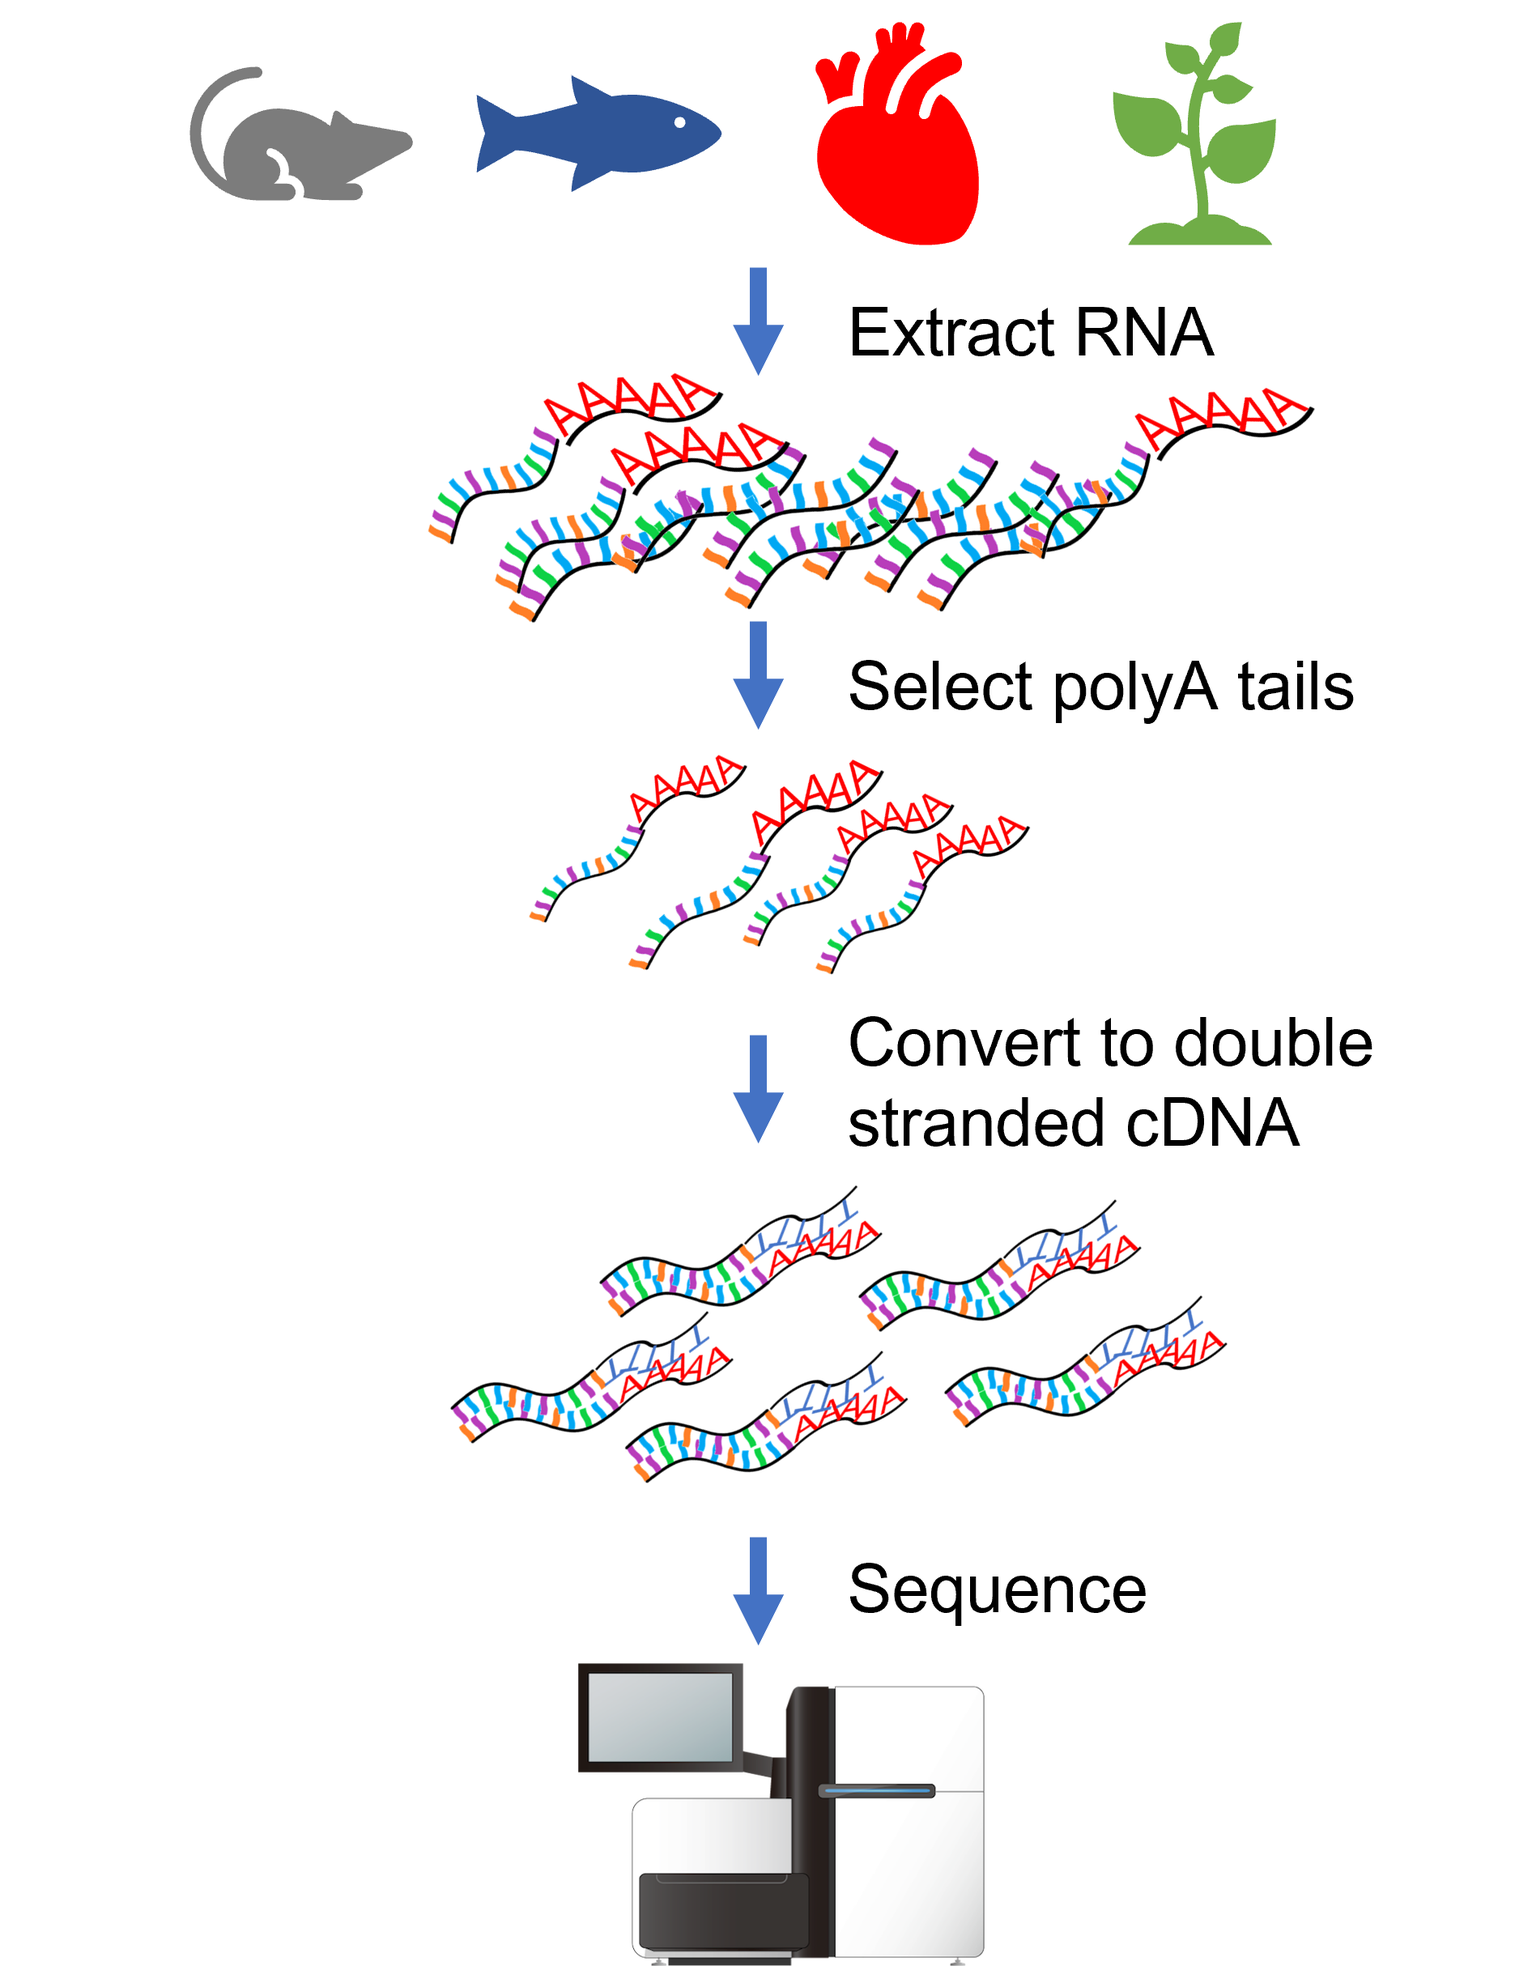
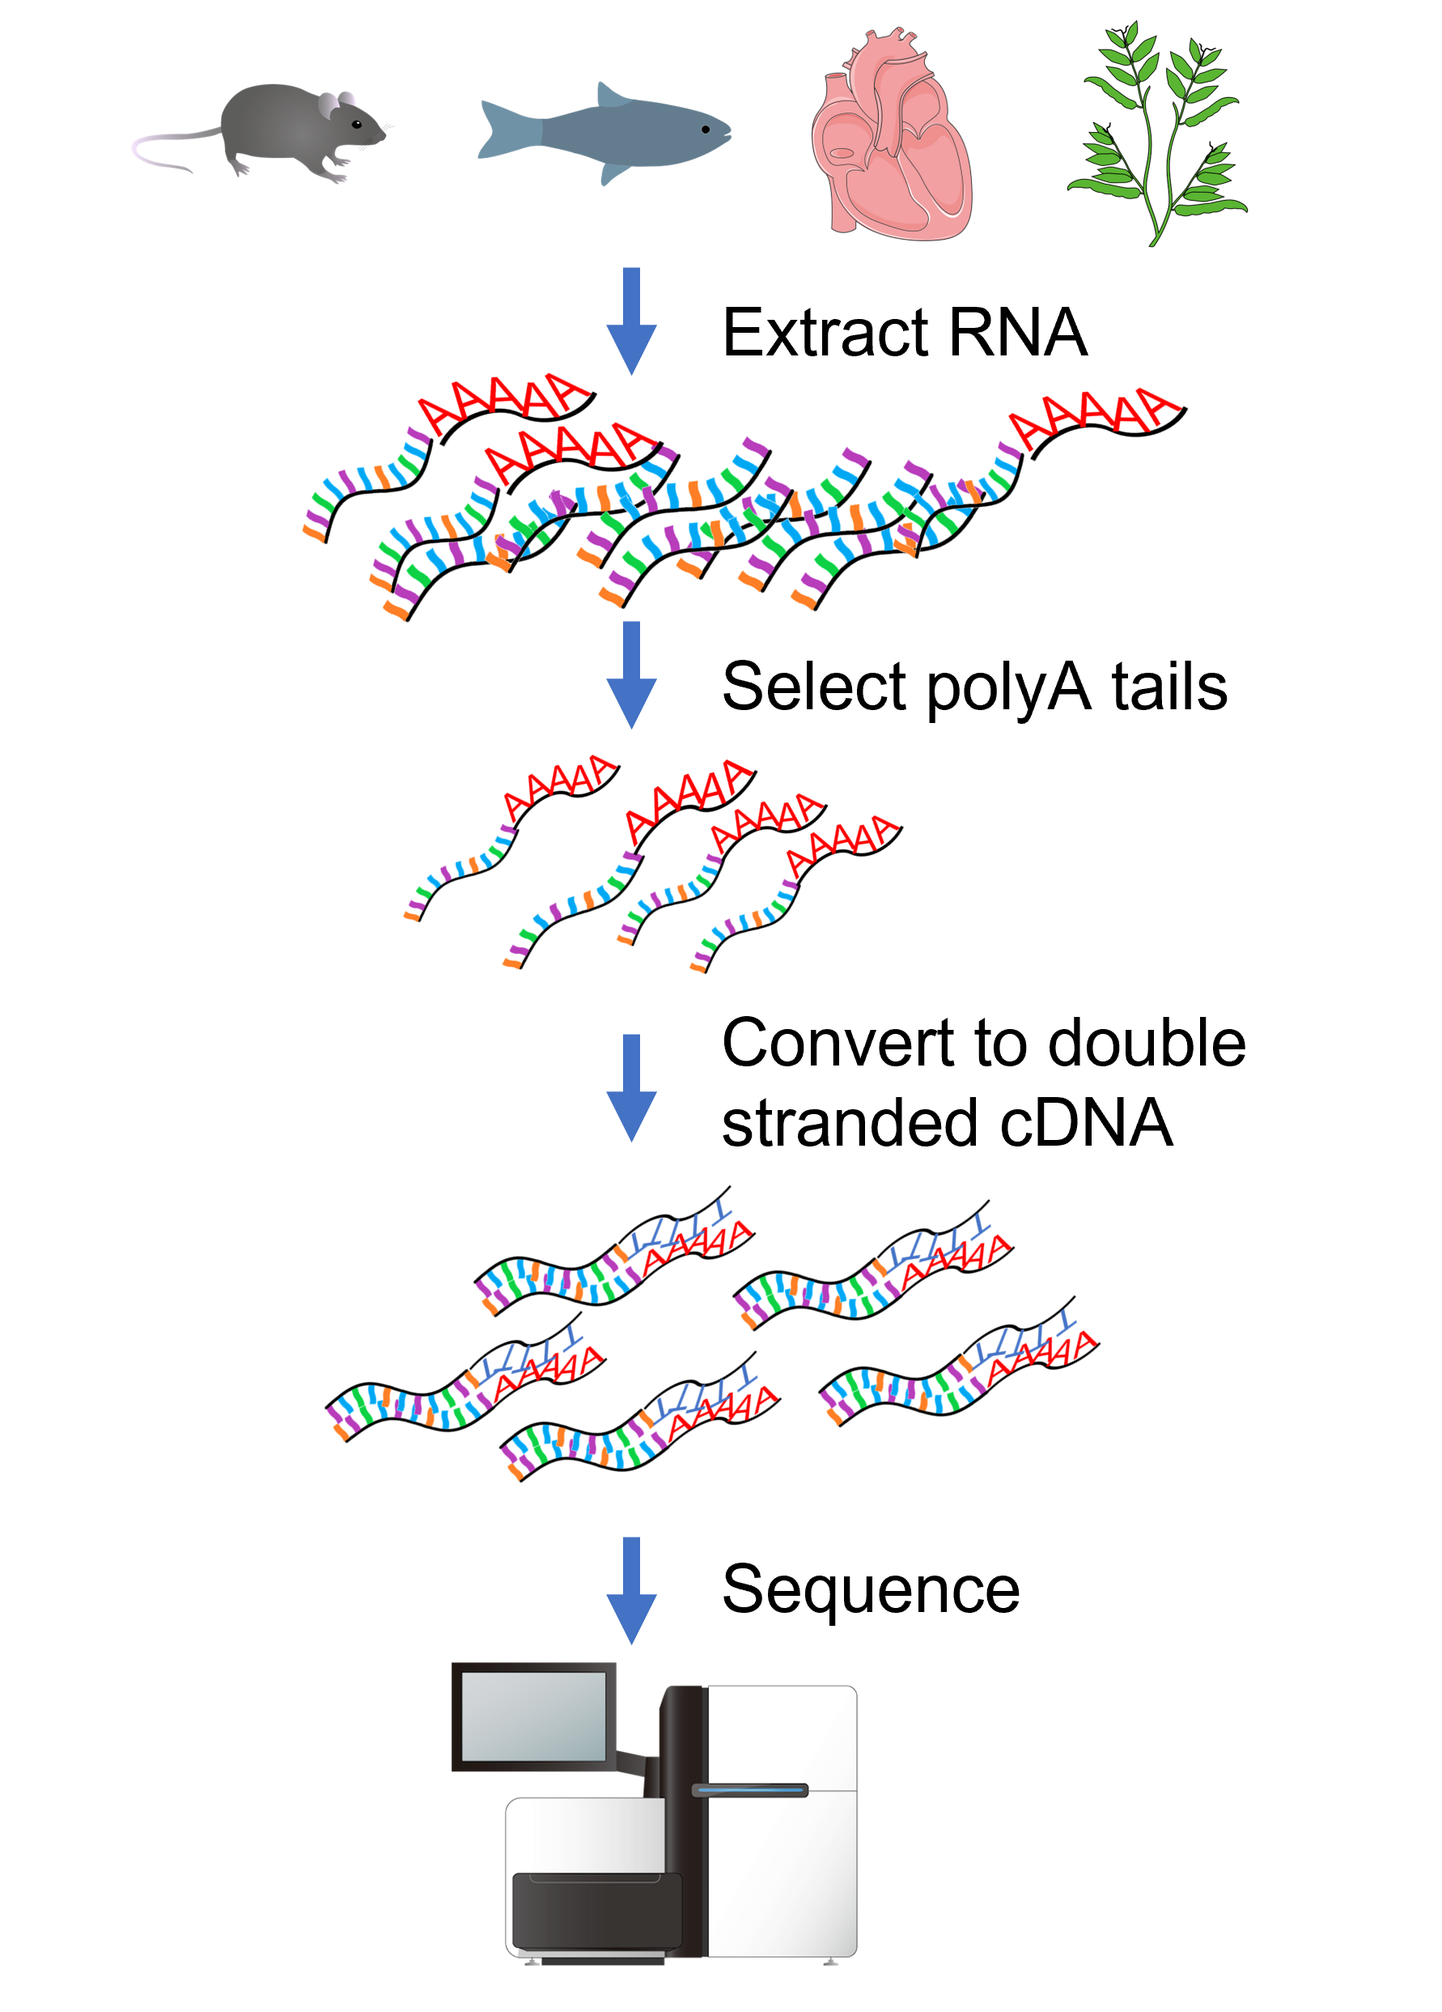
copyright free images, fixed other small things

diff --git a/chapter5.md b/chapter5.md
@@ -251,7 +251,6 @@ Oxford Nanopore MinION/PromethION and Pacbio Sequel II devices. Credits:
 
 Sanger sequencing was the first 'high-throughput' method of DNA sequencing. 
 For more details on its history and how it works, see [Box 3](w5box3). 
-Important to know about Sanger sequencing is 
 
 (w5box3)=
 ::::{admonition} Box 5.3: Sanger sequencing
@@ -307,6 +306,20 @@ is. This makes it difficult to differentiate between 3, 4 and 5 nucleotides
 of the same base. Sanger sequencing machines can sequence 96 fragments in 
 parallel, making it comparatively low throughput.
 
+::::
+
+Sanger sequencing needs many copies of a single DNA fragment to be present in
+the sequencing reaction. This meant that in the sample preparation step 
+fragments were cloned using either PCR or other large scale amplification methods.
+The requirement of uniqueness is the biggest drawback of Sanger sequencing.
+
+(w3imp1)=
+::::{admonition} Important to know about Sanger sequencing
+:class: important
+- is the original sequencing platform
+- produces reads of upto 1000bp long with a quality of 99.9% (Q30)
+- is low throughput
+- can only sequence on fragment at a time.
 ::::
 
 Sanger sequencing was the main sequencing platform until around 2007. From
@@ -365,7 +378,9 @@ fall into a tiny well and the amplification step takes place in the wells:
 <iframe align="middle" width="560" height="315" src="https://www.youtube.com/embed/pfZp5Vgsbw0?si=rONHDeNRYq_cL0kg" title="YouTube video player" frameborder="0" allow="accelerometer; autoplay; clipboard-write; encrypted-media; gyroscope; picture-in-picture; web-share" allowfullscreen></iframe>
 ::::
 
-The following things are important to know about Illumina sequencing:
+(w5imp2)=
+::::{admonition} Important to know about Illumina sequencing
+:class: important
 - all reads in one run have the same length, defined by the number of cycles (20-350bp). 
 - due to the fixed read length it is possible that the sequenced reads contain 
   primer sequences (if the DNA fragment was shorter than the number of cycles). 
@@ -379,6 +394,7 @@ that is approximately known.
 single run range from millions to billions, depending on the model.
 - fragments with extreme GC content are less likely to be sequenced, which can
 lead to incomplete genome assemblies or coverage.
+::::
 
 Overall, Illumina reads are cheap, short and highly accurate.
 
@@ -438,14 +454,16 @@ base.
 
 ::::
 
-Important things to know about PacBio sequencing:
-
+(w5imp3)=
+::::{admonition} Important things to know about PacBio sequencing
+:class: important
 - fragments with extreme GC content can be sequenced as there is no PCR step
 - the same fragment can be sequenced multiple times and used for error correction (Hifi)
 - read length is about 15kb for Hifi reads and up to 175kb for continuous long reads (CLR)
 - accuracy ranges from 99% (Q20) for CLR to 99.9% (Q30) for HiFi reads
 - it is high throughput with one run yielding up to 25 million reads (Revio)
 - is still more expensive than Illumina
+::::
 
 ---
 
@@ -504,12 +522,15 @@ the International Space Station.
 
 ::::
 
-Important things to know about nanopore sequencing:
+(w5imp4)=
+::::{admonition} Important things to know about nanopore sequencing
+:class: important
 - Can sequence very long reads
 - Accuracy is 98-99.9% (Q17-Q30)
 - Can directly detect base modifications (methylation)
 - fragments with extreme GC content can be sequenced as there is no PCR step
 - it is high throughput with one flowcell yielding between 2.5 and 3.5 million reads (MinION)
+::::
 
 ##### Quality control
 
@@ -651,37 +672,37 @@ algorithms and software. Any computational approach has to overcome the
 real-world challenges posed by the sequenced data and the characteristics of
 genomes.
 
-:::{figure} images/Week5/jigsaw.png
+:::{figure} images/Week5/fish_puzzle_numbers.png
 :alt: The assembly problem as a jigsaw puzzle
 :align: center
 :name: jigsaw
 
-The assembly problem as a jigsaw puzzle.
-Credits: {cite}`jigsaw_2016`.
+The assembly problem as a jigsaw puzzle. Numbers are referred to in the text.
+Credits: Based on [Public Domain Mark](https://creativecommons.org/public-domain/pdm/) {cite}`three_fish`, [CC BY-NC 4.0](https://creativecommons.org/licenses/by-nc/4.0/) {cite}`own_5_2024`.
 :::
-%#% Figure jigsaw is created by a lecturer at the Melbourne University. Not sure if we are allowed to use this.
+
 
 If we look at a genome assembly using the analogy of a jigsaw puzzle ({numref}`jigsaw`), the challenges become obvious:
 
 - There is no picture on the puzzle box, i.e. we have no idea what the assembled genome is meant to look like.
- We can look at related genomes, but this will only give an approximate idea.
+ We can look at related genomes, but this will only give an approximate idea. (Number 1 in the image)
 
 - There are loads of pieces in the puzzle, billions of them.
  Every piece represents a small part of the genome that has been sequenced.
 
-- Some pieces are frayed or dirty, i.e., reads contain errors, further obfuscating the overall picture.
+- Some pieces are frayed or dirty, i.e., reads contain errors, further obfuscating the overall picture. (2 and 5)
 
 - Some pieces are missing.
  Some parts of the genome do not break as easily as others, and are not included in the sheared fragments.
- Other have extreme GC values and do not amplify as well in the PCR step.
+ Other have extreme GC values and do not amplify as well in the PCR step. (3)
 
 - Some parts of the puzzle contain the same image.
  In genome terms, these are duplicated regions, where some genes may have more than one copy.
- For example, the ribosomal RNA cistron (the region which encodes the parts of the ribosome) consists of multiple copies.
+ For example, the ribosomal RNA cistron (the region which encodes the parts of the ribosome) consists of multiple copies. (4)
 
-- Some parts of the puzzle look completely identical and are featureless, like blue sky: the repeat regions.
+- Some parts of the puzzle look completely identical and are featureless: the repeat regions. (6)
 
-- In circular genomes, there are no "corners": we do not know where the genome begins or ends.
+- In circular genomes, there are no "corners": we do not know where the genome begins or ends. (7)
 
 In addition to the metaphors of the single puzzle, many organisms contain
 two (i.e. diploid) or more (i.e. polyploid) copies of the same chromosome,
@@ -691,7 +712,7 @@ these differences grow too big, parts from the two puzzles may be assembled
 independently without noticing (remember - we have no puzzle box!).
 
 With long high-quality reads this puzzle challenge becomes simpler, as there
-are fewer pieces in total and fewer only blue-sky parts. Currently,
+are fewer pieces in total and fewer featureless parts. Currently,
 chromosome-level assemblies are routinely generated using PacBio HiFi reads
 in combination with Hi-C.
 
@@ -699,13 +720,13 @@ in combination with Hi-C.
 
 ##### Repeats
 
-Repeat regions (i.e., the blue sky) are the main challenge in genome
+Repeat regions (i.e., the boring background) are the main challenge in genome
 assembly and most contigs (contiguous sequences, the longest stretches that
 can be assembled unequivocally) stop at the edges of repetitive regions.
-The process is like finding many puzzle pieces containing both bits of stork
-and blue sky, and trying to figure out which edge belongs to which stork and
-how much blue sky goes in between. One solution for solving the repeat
-problem are longer reads (that can bridge the blue sky between two storks).
+The process is like finding many puzzle pieces containing both bits of fish
+and background, and trying to figure out which edge belongs to which fish and
+how much background goes in between. One solution for solving the repeat
+problem are longer reads (that can bridge the sea between two fishes).
 To illustrate the scale of the problem that repeats pose in assembly: most
 mammalian Y-chromosomes have not been assembled for more than 50%, because
 of the repeat content.
@@ -733,17 +754,18 @@ from them. In the [reference genome quality](Week5_reference_genome_quality) sec
 order were already mentioned. If a genome is assembled in fewer, larger
 pieces (i.e., longer contigs), we can also understand more about the long
 distance regulatory elements that play a role in regulation of gene
-expression ({numref}`regulatory_elements`).
+expression ({numref}`Pax6_locus`).
 
-:::{figure} images/Week5/regulatory-elements.png
-:alt: Regulatory elements
+:::{figure} images/Week5/Pax6_operon.jpg
+:alt: PAX6 locus
 :align: center
-:name: regulatory_elements
+:name: Pax6_locus
 
-Examples of long-distance regulatory elements and their distances to the
-target gene identified in the human genome. Credits: {cite}`regulatory_elements_2010`
+Physical map of the human PAX6 locus showing long distance regulatory elements. 
+Credits: {cite}`pax_locus`
+
 :::
-%#% Figure regulatory_elements contains imagery that is specified as for personal use only. Replace this figure.
+
 
 As discussed above, the telomere-to-telomere assembly of the human genome
 added the 5% hitherto missing genome sequence. While the previous human
@@ -766,9 +788,10 @@ Shows the protein-coding gene _FRG1_ and its 23 paralogs in CHM13. Only 9
 were found in the previous assembly (GRCh38). Genes are drawn larger than
 their actual size, and the "_FRG1_" prefix is omitted for brevity. All
 paralogs are found near satellite arrays. _FRG1_ is involved in
-acioscapulohumeral muscular dystrophy (FSHD). Credits: modified from {cite}`t2t_human_genome_2022`.
+acioscapulohumeral muscular dystrophy (FSHD). 
+Credits: modified from [CC BY  4.0](https://creativecommons.org/licenses/by/4.0) via PMC {cite}`t2t_human_genome_2022`.
 :::
-%#% Figure FSHD is under copyright by Science. Unable to use this figure for free.
+
 
 ---
 
@@ -805,7 +828,7 @@ Mapping reads to a reference is a means to an end. As stated above, one of
 the main goals is to detect genomic variation. Such variation can help
 explain phenotypic variation (see [Box 5.7](Week5_phenotypic_variation)). Genomic variation
 between samples, individuals and/or species can also be used to study
-evolutionary history (see also chapters [2](week2) and [3](week3), on multiple sequence
+evolutionary history (see also chapters [2](chapter2) and [3](chapter3), on multiple sequence
 alignments and phylogeny).
 %#% Add direct cross-link to MSA in chapter 2 when written.
 Variants are divided into two main groups: structural or large-scale
@@ -928,8 +951,9 @@ condition have a high pitched cry that sounds similar to a cat, which has
 given the condition its name.
 
 Furthermore, they suffer a.o. from delayed growth and poor reflexes.
+Credits: Image modified from [CC-BY 2.0](https://creativecommons.org/licenses/by/2.0) {cite}`cri-du-chat` and [CC-BY SA 4.0](http://creativecommons.org/licenses/by/4.0/) {cite}`chrom5`.
 ::::
-%#% Image cri_du_chat source https://www.newhealthguide.org/Life-Expectancy-Of-Cri-Du-Chat-Syndrome.html.
+
 
 ---
 
@@ -1212,16 +1236,6 @@ scientific approach in which the main goal is to construct models of living
 systems, that are increasingly refined by hypothesis formation,
 experimentation, and model extension or modification.
 
-%:::{figure} images/Week5/systems-biology.png
-%:alt: The systems biology cycle
-%:align: center
-%:width: 400px
-%:name: systems_biology
-%
-%The systems biology cycle, aiming to iteratively improve models of living
-%systems. Credits: {cite}`systems_biology_2002`.
-%:::
-%#% Figure systems_biology is under copyright by Science. Unable to use for free.
 
 :::{figure} images/Week5/systems-biology_alt.svg
 :alt: The systems biology cycle
@@ -1249,7 +1263,7 @@ data analysis is an essential element in systems biology.
 Transcriptomics is concerned with measuring the expression of genes (i.e.,
 the levels of transcription of genes on the genome to RNA). RNA and its
 role in the cell has already been discussed in [chapter 1](Week1_rna_transcription_splicing). If you want to know
-what other types of RNA exist outside the common mRNA, tRNA and rRNA, read
+what other types of RNA exist outside the common mRNA, miRNA, tRNA and rRNA, read
 [Box 5.6](Week5_RNA). Here we focus on measuring and counting transcripts (mRNA).
 %#% Chapter 1 does also mention miRNA as one of the main types of RNA.
 
@@ -1263,7 +1277,7 @@ Many other types of RNA exist in the cell and they perform important regulatory 
   miRNAs bind to target sites in mRNA and prevent binding of the messenger.
 - siRNA (short interfering RNA): are generally 20-24nt long pieces of RNA that work similar to miRNAs but instead of actively preventing translation, the targeted mRNA is cut into pieces and destroyed.
 
-:::{figure} images/Week5/RNA-types.png
+:::{figure} images/Week5/RNA-types.jpg
 :alt: Overview of the different types of RNA
 :align: center
 :width: 100%
@@ -1319,19 +1333,6 @@ mRNA levels:
 
 #### How to measure mRNAs?
 
-%:::{figure} images/Week5/differential-gel.jpg
-%:alt: Differential display gel
-%:width: 150px
-%:height: 300px
-%:align: right
-%:name: differential_gel
-%
-%Example of differential \
-%display gel. Credits: modified from \
-%{cite}`differential_gel_2001`.
-%:::
-%#% Figure differential_gel is under copyright by the American Physiological Society. Unable to use for free.
-
 :::{figure} images/Week5/differential-gel_alt.png
 :alt: Differential display gel
 :width: 184px
@@ -1366,18 +1367,6 @@ which in turn is detected. When the reaction passes a threshold at a given
 cycle, the cycle number is used to deduce the original amount of template
 fragments in the reaction ({numref}`qPCR_alt`). qPCR is often used to validate
 results obtained by other quantitative methods.
-
-%:::{figure} images/Week5/qPCR.jpg
-%:alt: qPCR amplification graph
-%:align: center
-%:width: 500px
-%:name: qPCR
-%
-%Amplification plot of a DNA fragment in a qPCR reaction.
-%C{sub}`q` corresponds to the cycle were fluorescence passes the
-%detection threshold. Credits: {cite}`qPCR_nd`.
-%:::
-%#% Unable to use figure qPCR due to copyright.
 
 :::{figure} images/Week5/qPCR_alt.svg
 :alt: qPCR amplification graph
@@ -1417,16 +1406,6 @@ expression of the corresponding gene.
 ---
 
 ##### cDNA and oligonucleotide arrays
-
-%:::{figure} images/Week5/microarrays.png
-%:alt: cDNA (two-color) vs oligonucleotide (one-color) microarray analysis.
-%:align: center
-%:name: microarrays
-%
-%The difference between cDNA (two-color) and oligonucleotide (one-color) microarray analysis.
-%Credits: modified from {cite}`microarrays_2007`.
-%:::
-%#% Unable to use figure microarrays due to copyright.
 
 :::{figure} images/Week5/microarrays_alt.svg
 :alt: cDNA (two-color) vs oligonucleotide (one-color) microarray analysis.
@@ -1525,15 +1504,14 @@ to deal with the resulting data. For a review, see this [paper](https://genomebi
 
 :::{figure} images/Week5/RNAseq-protocol.png
 :alt: RNAseq protocol
-:align: right
+:align: center
 :width: 350px
 :name: RNAseq_protocol
 
 Standard RNAseq protocol. \
-Credits: [CC BY 4.0](https://creativecommons.org/licenses/by/4.0/) modified from \
-{cite}`RNAseq_protocol_2011`.
+Credits: [CC BY 4.0](https://creativecommons.org/licenses/by/4.0/) {cite}`own_5_2024` modified/created from \
+[CC BY 4.0](https://creativecommons.org/licenses/by/4.0/) {cite}`RNAseq_seq_2011`, {cite}`RNAseq_plant_2023`, {cite}`RNAseq_seq_2020`, [CC BY 3.0](https://creativecommons.org/licenses/by/3.0) {cite}`RNAseq_mouse_2013`, {cite}`RNAseq_heart_2016`, [CC0 1.0](https://creativecommons.org/publicdomain/zero/1.0) {cite}`RNAseq_fish_2014`
 :::
-%#% Figure RNAseq_protocol seems to be self-created out of imagery from different sources. I was only able to find the source for the sequencer, which now serves as the reference for the whole image.
 
 The standard protocol of an RNAseq experiment is shown in {numref}`RNAseq_protocol`.
 First, all RNA (total RNA) is extracted from a biological sample.
@@ -1680,21 +1658,6 @@ two samples.
 ---
 
 #### ChIPseq and other protocols
-
-%:::{figure} images/Week5/chip-protocol.jpeg
-%:alt: ChIPseq protocol
-%:align: right
-%:name: chip_protocol
-%
-%The chromatin immunoprecipitation (ChIP) protocol. Proteins are
-%cross-linked to DNA, after which genomic DNA is isolated and sheared. Using
-%an antibody, only the protein of interest is selected (the
-%immunoprecipitation step), after which the cross-linking is reversed and the
-%DNA can be sequenced by PCR (ChIP-PCR) or NGS (ChIPseq). Similar protocols
-%are available for protein-RNA and protein-protein interactions, the latter
-%using two antibodies. Credits: {cite}`chip_protocol_2009`.
-%:::
-%#% Unable to use figure chip_protocol due to copyright.
 
 :::{figure} images/Week5/chip-protocol_alt.jpg
 :alt: ChIPseq protocol
